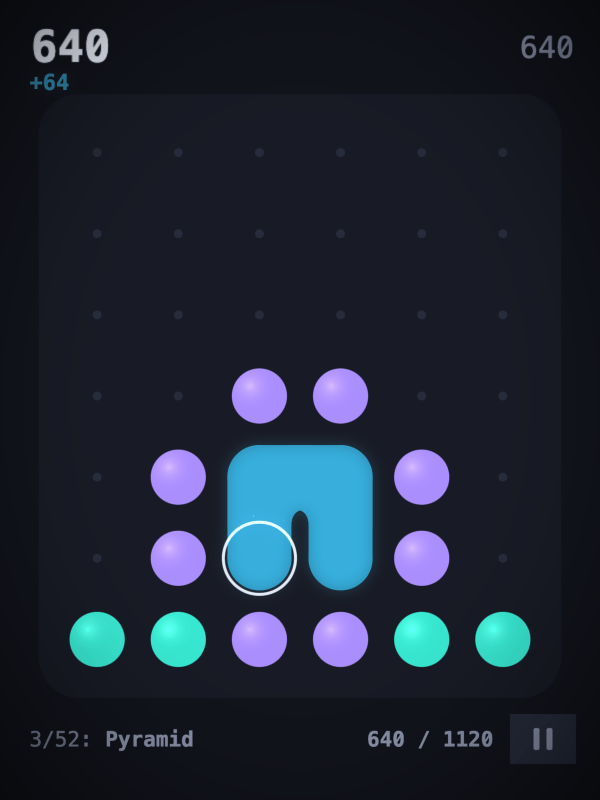
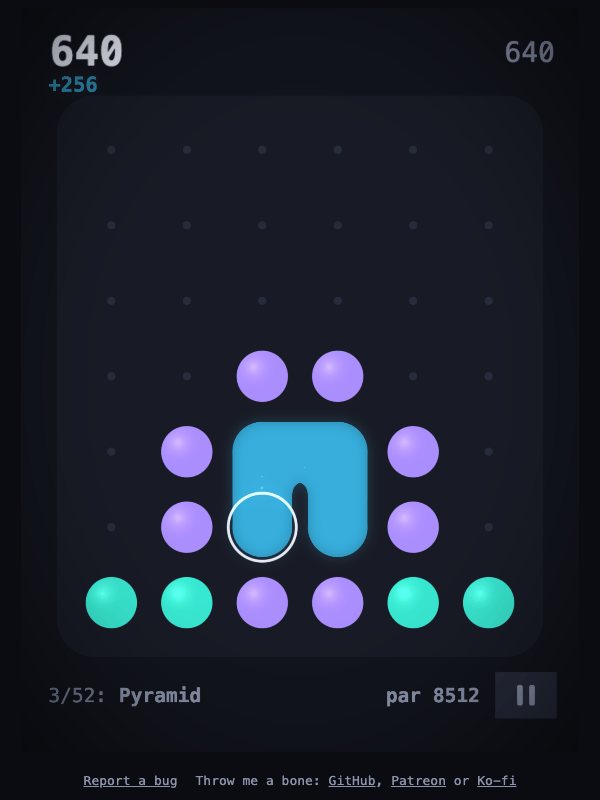
Show a level's own score against a level's own par
The big number was the run's total and par is a level's, so the two were
about different things: by the fourth level of a ladder the total has
passed par before a move is made, which reads as having beaten it. Under
cubed scoring it grew slowly enough to hide; at the fourth power it does
not.

The big number is the level's score now, the run's total takes the corner
the best score uses, and the strip names par rather than repeating a score
that is already above it. No change to a mode without levels, which has
no par for the number to be about.

The score was never wrong: levelScore has always re-zeroed and the star
has always been judged off it. Only what was on screen disagreed.

diff --git a/src/view.js b/src/view.js
@@ -488,15 +488,24 @@ export class GameView {
     // The title screen has no score to show, and a zero under a panel that says
     // START is just noise.
     if (game.phase !== PHASE.TITLE) {
-      // No labels: a big number top left is the score and a smaller one top right is the
-      // best there has been, and neither needs saying twice.
-      const score = String(player.score)
+      // No labels: a big number top left is the score and a smaller one top right is what it is
+      // being held against, and neither needs saying twice.
+      //
+      // On a level the big one is that level's own score, since par is a level's - see
+      // Game.shownScore - and the smaller one is the run it belongs to rather than a best,
+      // a ladder's total being the thing a run of it adds up to.
+      const score = String(game.shownScore)
       renderer.text(score, 28, 62, { color: theme.text.bright, size: SCORE_SIZE, bold: true })
-      renderer.text(String(Math.max(best, player.score)), VIEW_W - 28, 58, {
-        color: theme.text.dim,
-        size: 30,
-        align: "right",
-      })
+      renderer.text(
+        String(game.levelPar > 0 ? player.score : Math.max(best, player.score)),
+        VIEW_W - 28,
+        58,
+        {
+          color: theme.text.dim,
+          size: 30,
+          align: "right",
+        },
+      )
       // The multiplier only appears once it is worth something, and glows, since it
       // is what a long chain earned. Beside the score: above the board is where the page's
       // own buttons are.
@@ -576,7 +585,9 @@ export class GameView {
       // that, since it carries across levels. Right edge clear of the pause button.
       if (game.levelPar > 0) {
         const reached = game.levelScore >= game.levelPar
-        renderer.text(`${game.levelScore} / ${game.levelPar}`, PAUSE_BUTTON.x - 18, stripY, {
+        // Named, not repeated: what this level has paid is the big number above, so the strip is
+        // the target it is aiming at and nothing else.
+        renderer.text(`par ${game.levelPar}`, PAUSE_BUTTON.x - 18, stripY, {
           color: reached ? theme.accent : theme.text.dim,
           size: 21,
           align: "right",

diff --git a/test/view.test.js b/test/view.test.js
@@ -418,6 +418,34 @@ test("a round of turns is marked out of five, and the stars arrive one by one", 
   assert.deepEqual(landed, [0, 1, 4, 4], "they arrive one at a time and stop at the rank")
 })
 
+test("a level shows its own score, and the run it belongs to apart from it", () => {
+  // Par is a level's, so the number beside it has to be the level's too. A running total there
+  // has passed par before a move is made by about the fourth level of a ladder, which reads as
+  // having beaten it.
+  const game = new Game()
+  game.progress = { puzzle: { 0: 1, 1: 1 } }
+  game.start("puzzle", { level: 2 })
+  settle(game)
+  game.player.score = 41200
+  game.levelStartScore = 38900
+  assert.equal(game.shownScore, 2300, "the big number is what this level has paid")
+
+  const shown = drawn(game)
+    .filter((call) => call.kind === "text")
+    .map((call) => call.opts.str)
+  assert.ok(shown.includes("2300"), "and it is on screen")
+  assert.ok(shown.includes("41200"), "with the run's total apart from it")
+  assert.ok(shown.includes(`par ${game.levelPar}`), "and the target named, not repeated")
+  assert.equal(shown.includes(`${game.levelScore} / ${game.levelPar}`), false)
+
+  // A mode without levels has no par, so the big number is the whole of what has been scored.
+  const rush = new Game()
+  rush.start("rush")
+  settle(rush)
+  rush.player.score = 9100
+  assert.equal(rush.shownScore, 9100)
+})
+
 test("the turn gauge draws at every point of a round, and holds its label", () => {
   const game = new Game()
   game.start("seeded")

diff --git a/src/game.js b/src/game.js
@@ -825,6 +825,16 @@ export class Game {
     return best > 0 ? `${scored}, best ${best}` : scored
   }
 
+  // The number the HUD puts up big, and what it is measured against.
+  //
+  // On a level that is the level's own score, not the run's. Par is a level's, so a running total
+  // beside it is two numbers about different things: by the fourth level of a ladder the total has
+  // passed par before a move has been made, which reads as having beaten it. The run's total is
+  // still what the mode scores and it is still on screen, in the corner the best score uses.
+  get shownScore() {
+    return this.levelPar > 0 ? this.levelScore : this.player.score
+  }
+
   // What it has cost, in chains spent: the level's own where a level is being played, since
   // the score beside it is the level's too.
   get turnsLine() {
